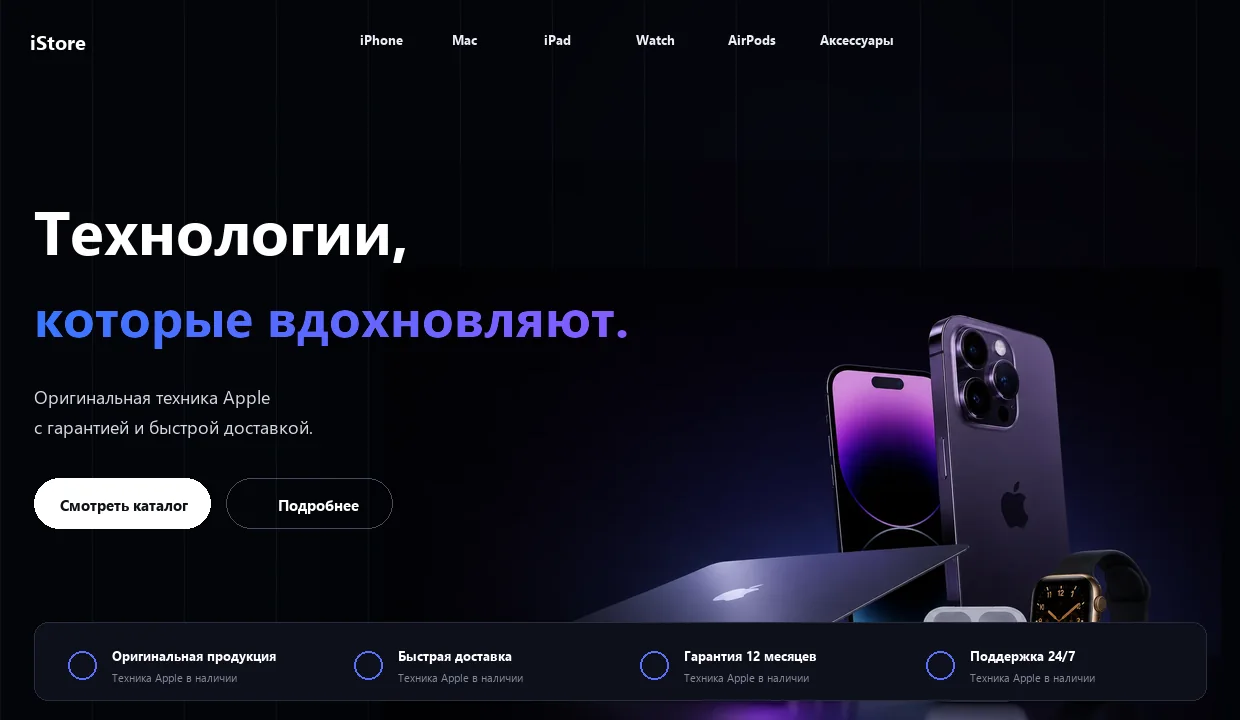
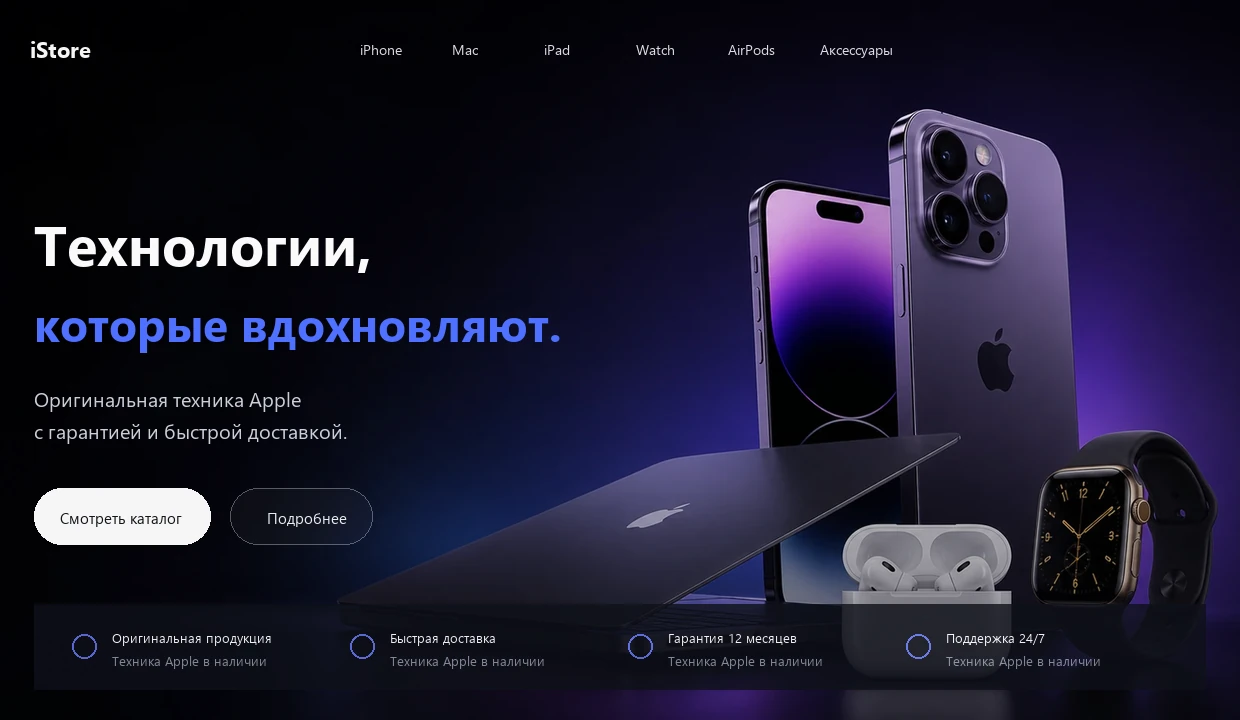
Update iStore hero artwork

diff --git a/orbit-supply/styles.css b/orbit-supply/styles.css
@@ -174,10 +174,12 @@ svg {
 .hero::after {
   content: "";
   position: absolute;
-  inset: auto 0 0;
-  height: 34%;
+  inset: 0;
   pointer-events: none;
-  background: linear-gradient(180deg, transparent, rgba(3, 4, 8, 0.95) 83%);
+  z-index: 1;
+  background:
+    linear-gradient(90deg, rgba(3, 4, 8, 0.52) 0%, rgba(3, 4, 8, 0.2) 34%, transparent 68%),
+    linear-gradient(180deg, transparent 60%, rgba(3, 4, 8, 0.97) 96%);
 }
 
 .hero-copy {
@@ -280,12 +282,13 @@ h3 {
 
 .hero-products {
   position: absolute;
-  right: -48px;
-  bottom: 0;
-  z-index: 1;
-  width: min(960px, 74vw);
-  height: auto;
-  filter: drop-shadow(0 40px 70px rgba(56, 45, 160, 0.22));
+  inset: 0;
+  z-index: 0;
+  width: 100%;
+  height: 100%;
+  object-fit: cover;
+  object-position: 58% 40%;
+  filter: saturate(1.06) contrast(1.03);
 }
 
 .service-strip,
@@ -786,11 +789,6 @@ h3 {
     width: min(540px, 58%);
   }
 
-  .hero-products {
-    right: -180px;
-    width: min(920px, 94vw);
-  }
-
   .service-strip,
   .mini-strip {
     grid-template-columns: repeat(2, minmax(0, 1fr));
@@ -875,13 +873,6 @@ h3 {
     min-height: 48px;
     padding: 0 18px;
     font-size: 0.8rem;
-  }
-
-  .hero-products {
-    right: -130px;
-    bottom: 20px;
-    width: 700px;
-    max-width: none;
   }
 
   .service-strip {

diff --git a/orbit-supply/index.html b/orbit-supply/index.html
@@ -13,7 +13,7 @@
     <link rel="preconnect" href="https://fonts.googleapis.com" />
     <link rel="preconnect" href="https://fonts.gstatic.com" crossorigin />
     <link href="https://fonts.googleapis.com/css2?family=Manrope:wght@400..700&display=swap" rel="stylesheet" />
-    <link rel="stylesheet" href="./styles.css?v=20260613-type2" />
+    <link rel="stylesheet" href="./styles.css?v=20260613-hero2" />
   </head>
   <body>
     <svg class="sprite" aria-hidden="true">
@@ -60,7 +60,7 @@
               <a class="btn btn-dark" href="#iphone">Подробнее</a>
             </div>
           </div>
-          <img class="hero-products" src="./assets/istore-hero.webp" alt="iPhone, MacBook, AirPods и Apple Watch на темном фоне" width="1792" height="1024" />
+          <img class="hero-products" src="./assets/istore-hero-wide.webp?v=20260613-hero2" alt="iPhone, MacBook, AirPods и Apple Watch на темном фоне" width="1920" height="1080" />
         </section>
 
         <section class="service-strip" aria-label="Преимущества iStore">

diff --git a/index.html b/index.html
@@ -285,7 +285,7 @@
 
           <article class="work-card work-card-centered reveal" data-url="./orbit-supply/index.html" data-title="iStore">
             <div class="browser-preview">
-              <img src="./portfolio-assets/work-orbit-supply.webp" alt="Главный экран лендинга iStore для магазина техники Apple" loading="lazy" decoding="async" width="1240" height="720" />
+              <img src="./portfolio-assets/work-orbit-supply.webp?v=20260613-hero2" alt="Главный экран лендинга iStore для магазина техники Apple" loading="lazy" decoding="async" width="1240" height="720" />
             </div>
             <div class="work-meta">
               <h3>iStore — магазин техники Apple</h3>
